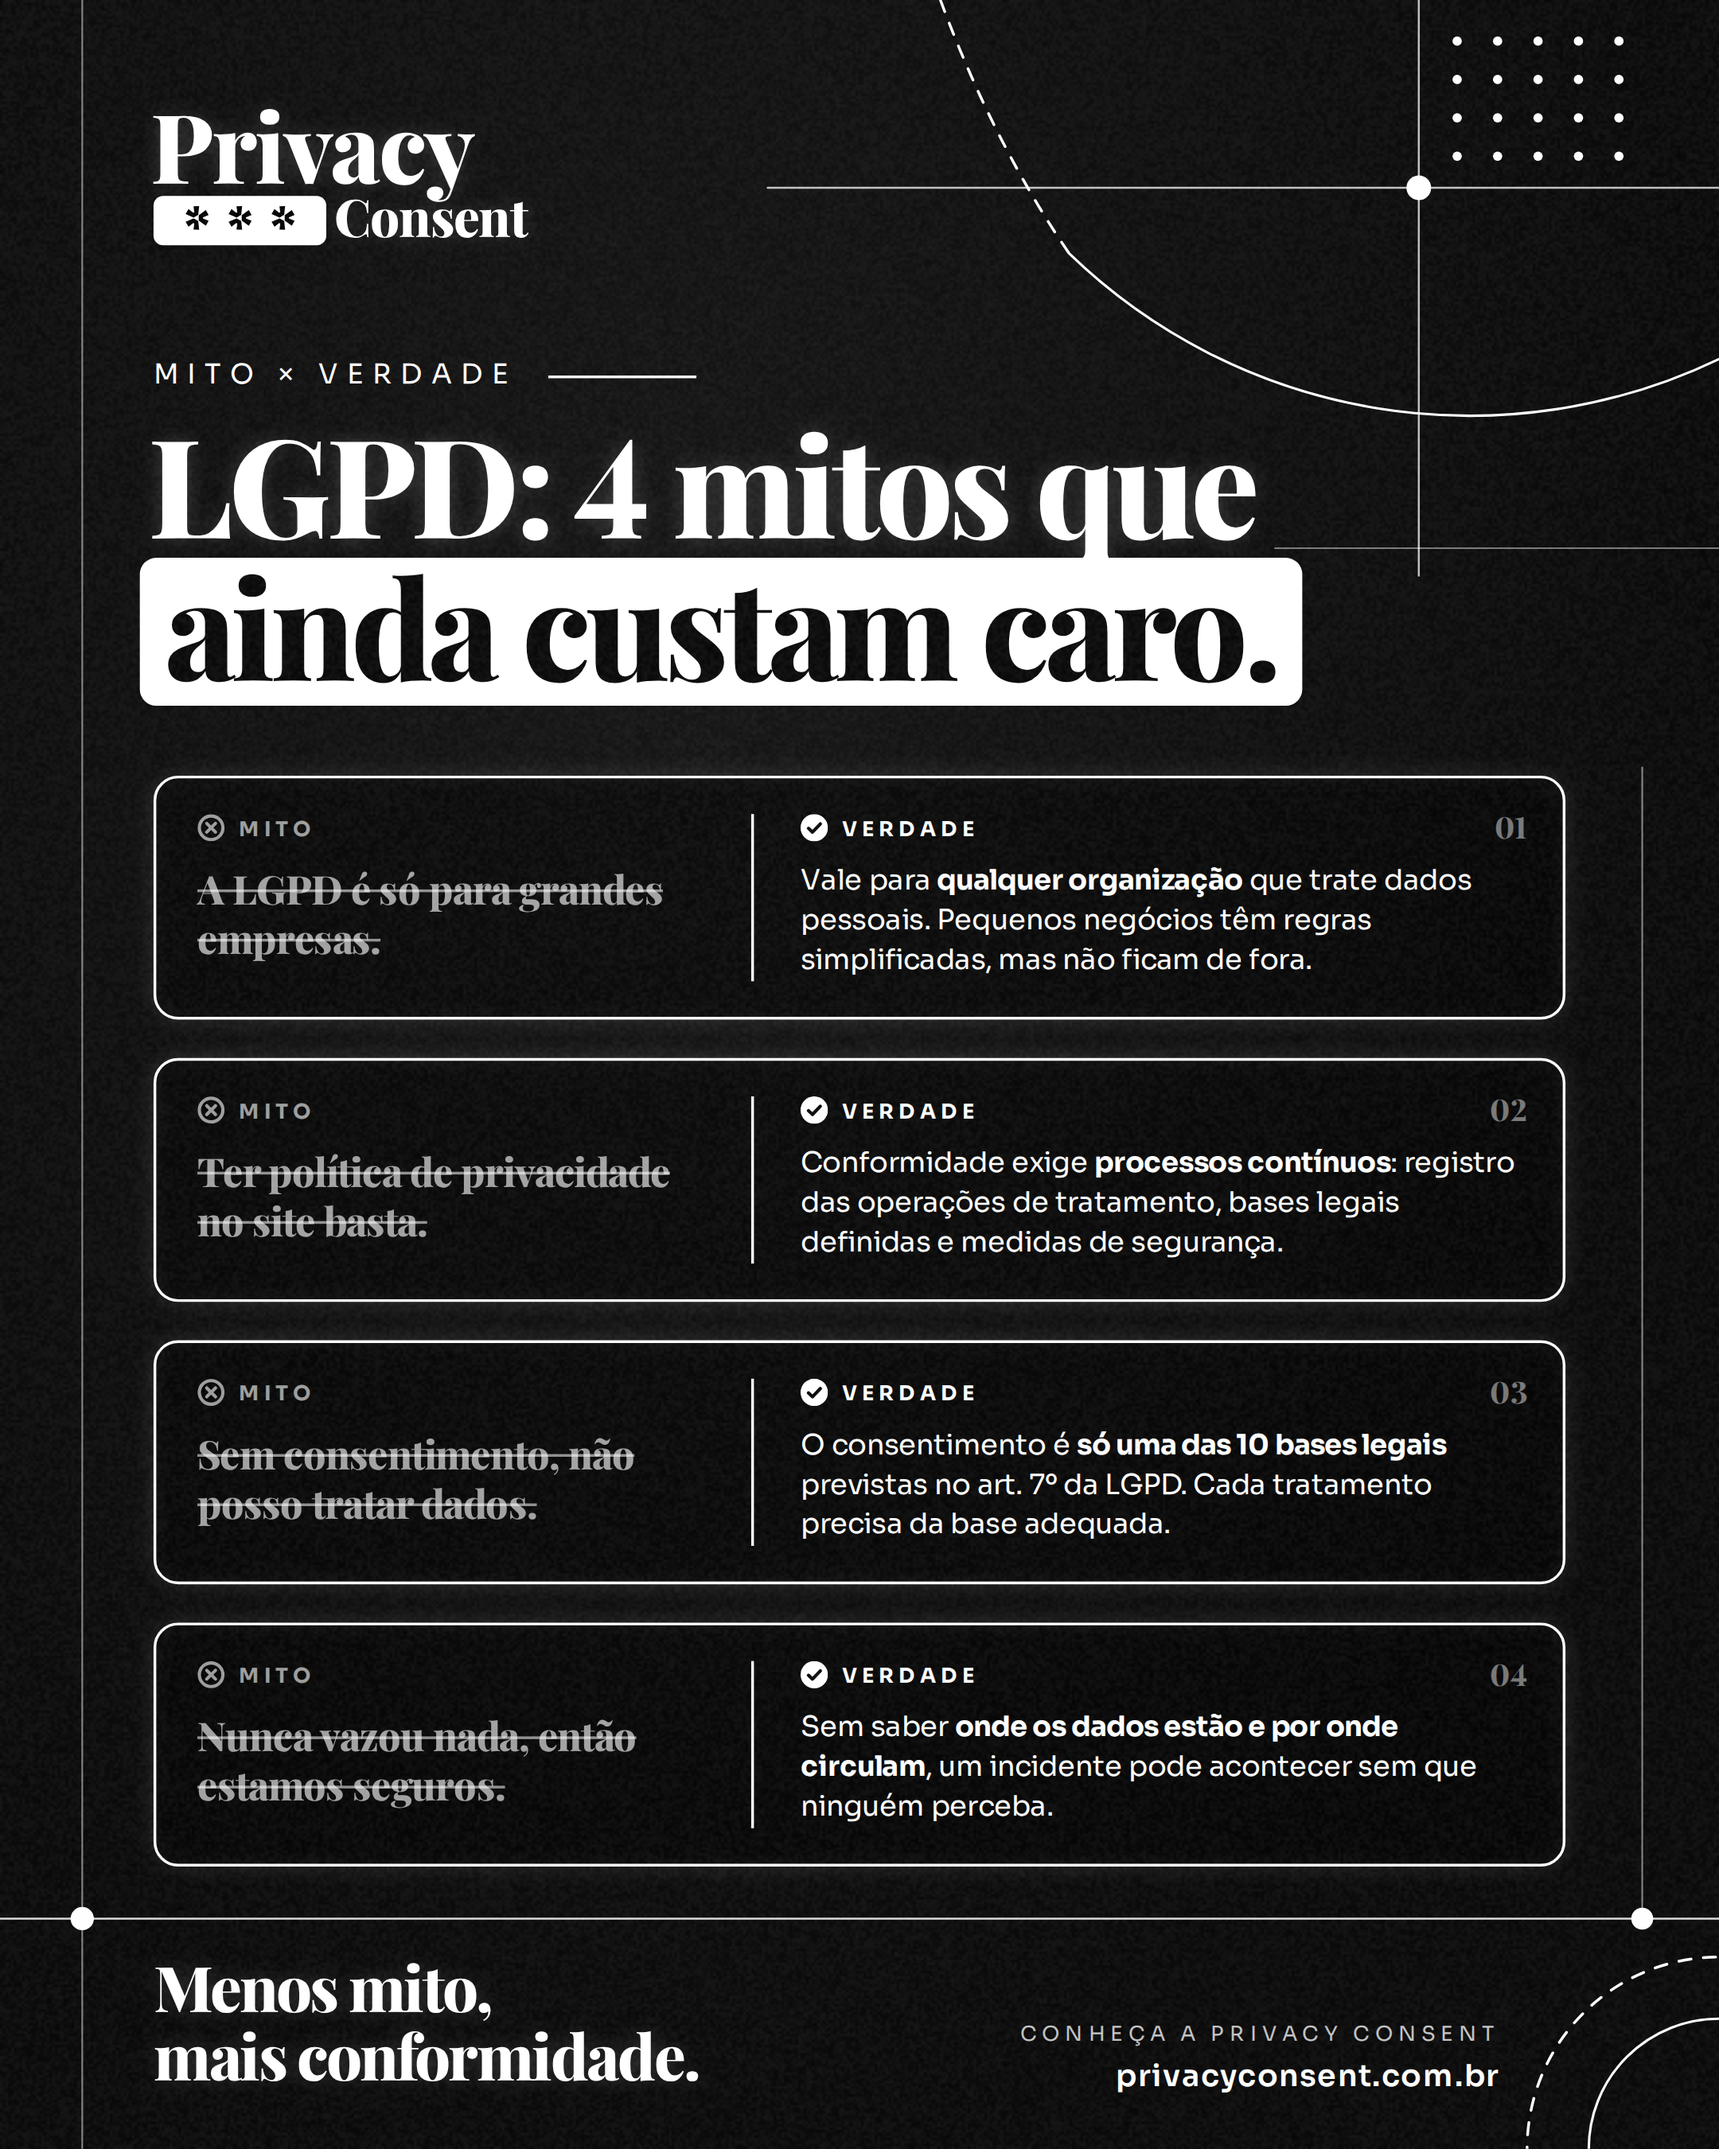
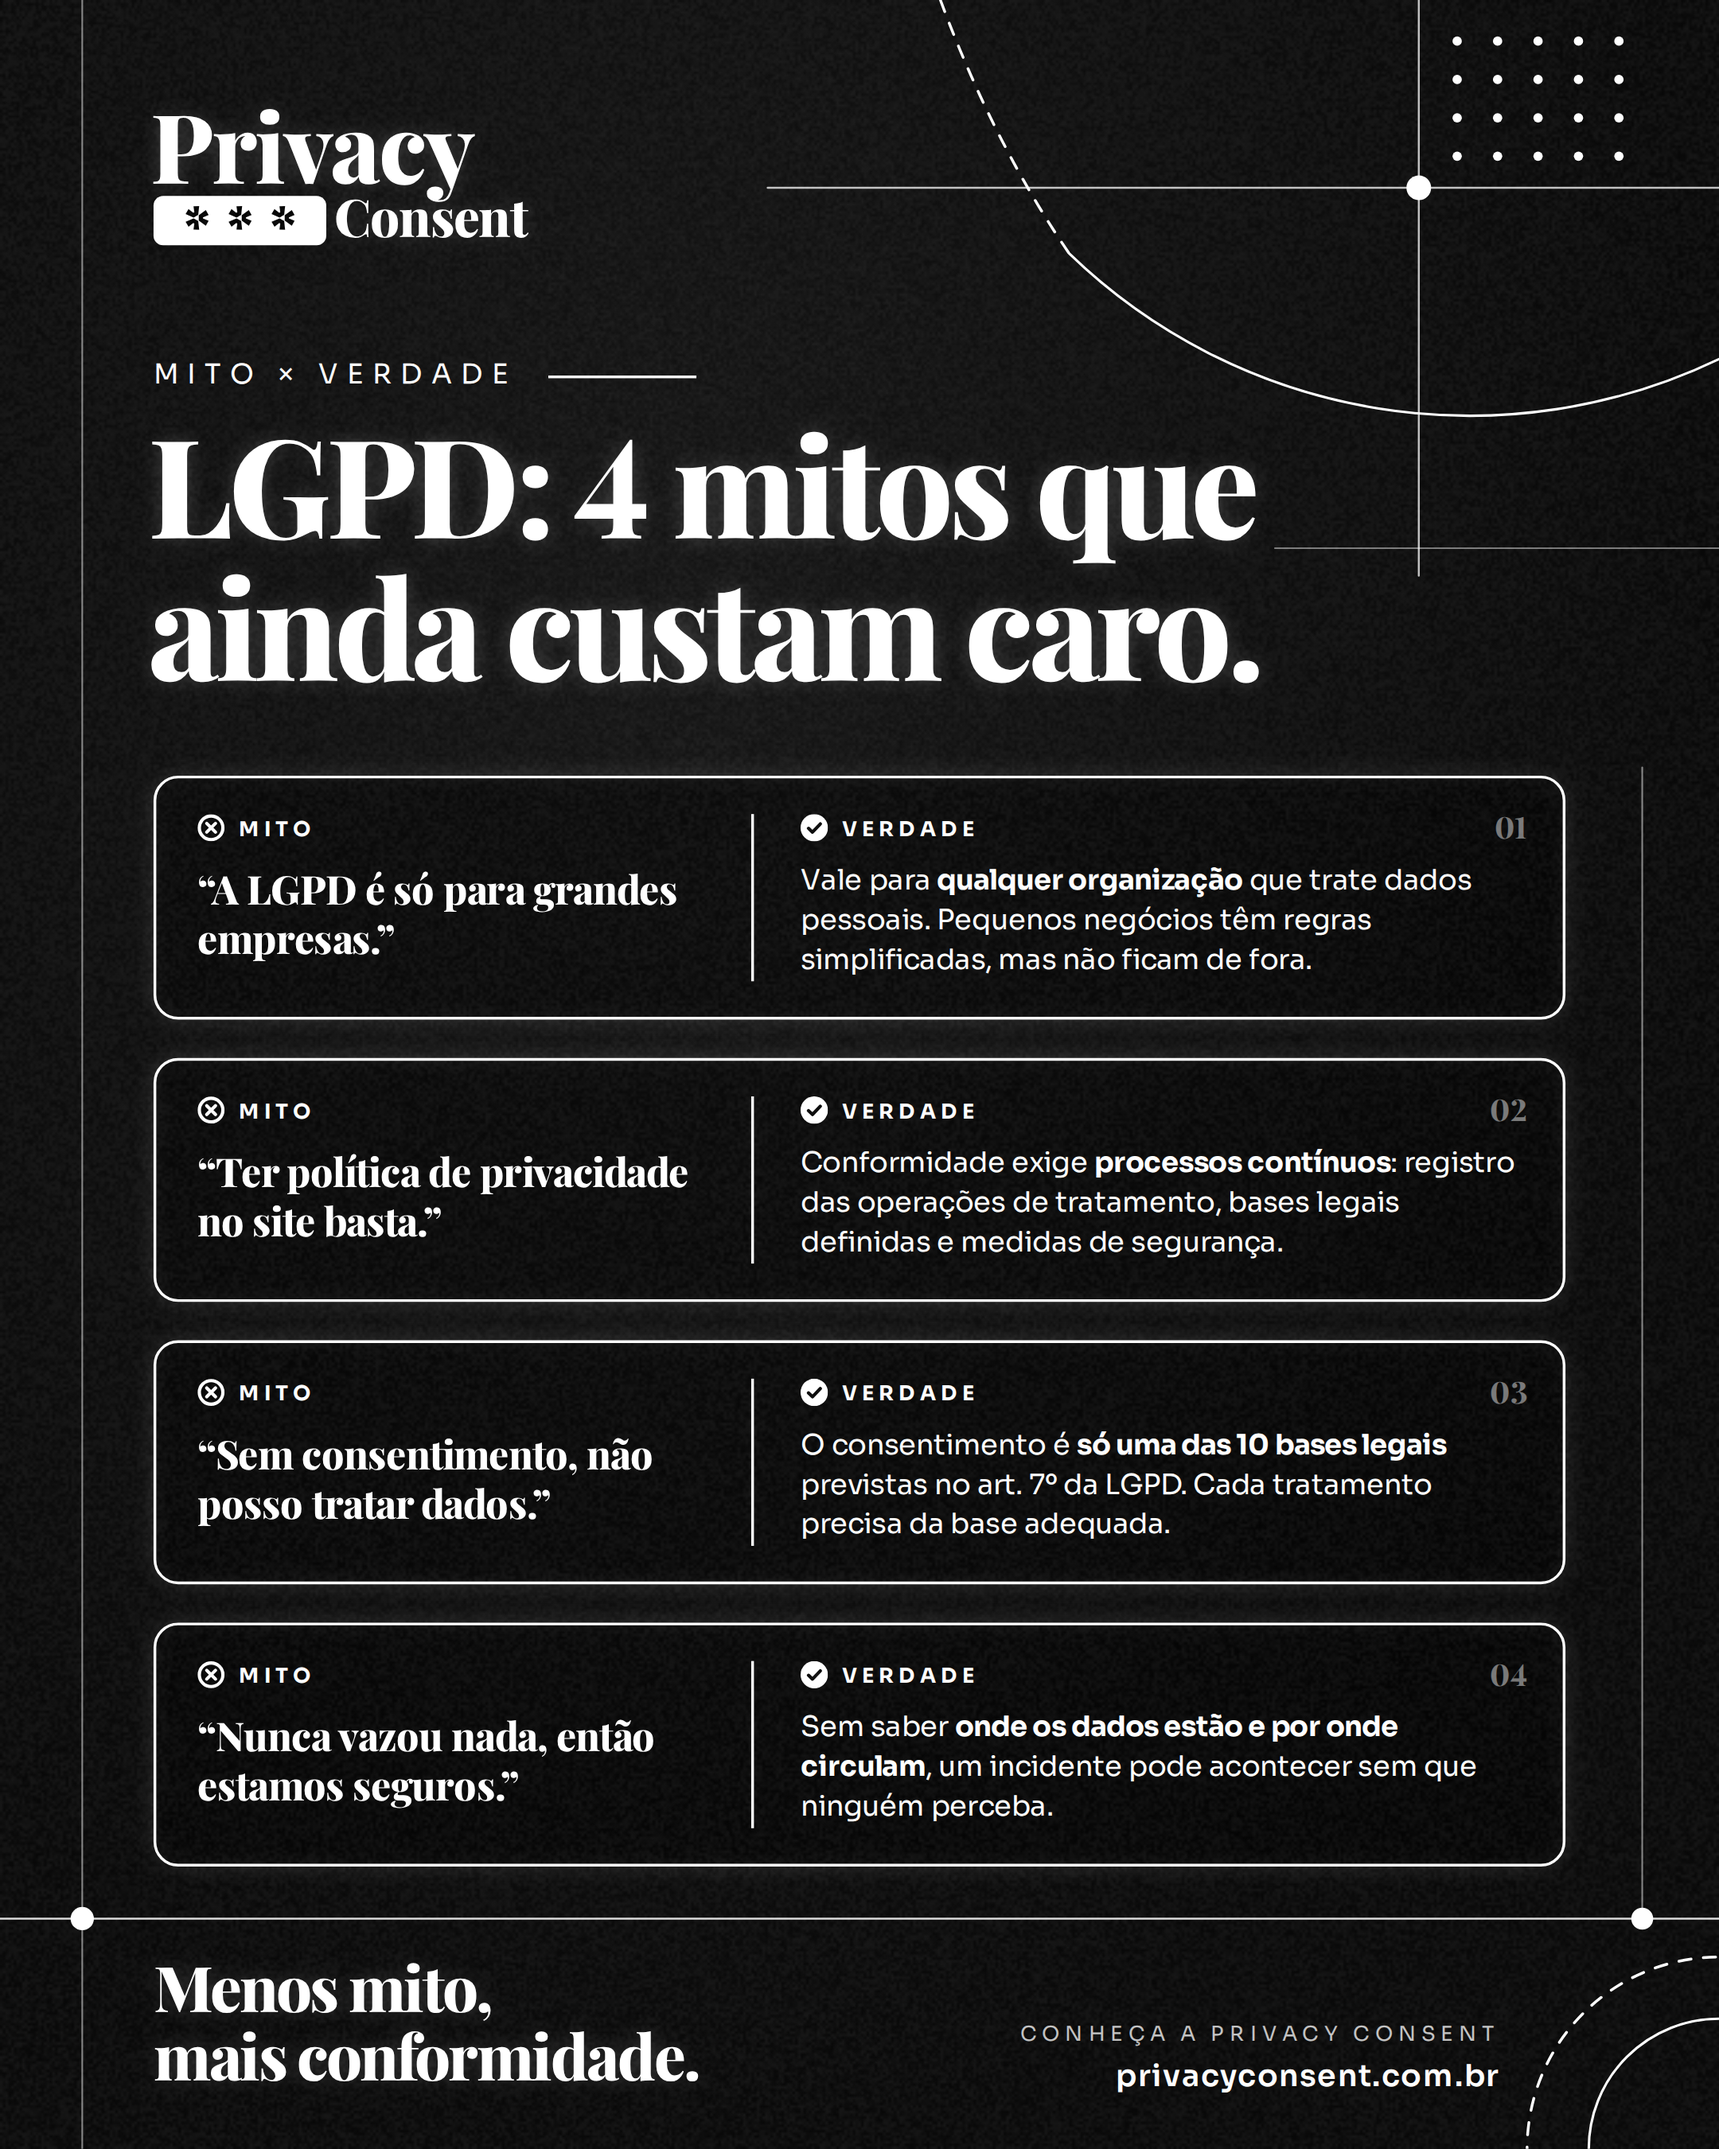
Mitos post: make myths fully legible and drop title highlight box
Claude-Session: https://claude.ai/code/session_01CNA9pLsGgXGqiNL45413r8

diff --git a/privacy-video/mitos.html b/privacy-video/mitos.html
@@ -26,19 +26,17 @@
   #labelRule { position: absolute; left: 400px; top: 274px; width: 108px; height: 1.5px; background: #fff; }
 
   #title { left: 108px; top: 300px; font-size: 100px; letter-spacing: -3.4px; line-height: 104px; }
-  #title .hl { display: inline-block; background: #fff; color: #070707; border-radius: 12px;
-               padding: 0 18px 10px; margin-left: -6px; text-shadow: none; line-height: 98px; }
 
   .card { position: absolute; left: 112px; width: 1030px; height: 178px; border: 2.5px solid #fff; border-radius: 18px;
           box-shadow: 0 0 18px rgba(255,255,255,.12), inset 0 0 18px rgba(255,255,255,.05); background: rgba(0,0,0,.45); }
   .card .tag { position: absolute; display: flex; align-items: center; gap: 10px;
                font-family: 'Sora', sans-serif; font-weight: 700; font-size: 15px; letter-spacing: 3.5px; color: #fff; }
   .card .tag svg { flex: none; }
-  .card .myth-tag { left: 30px; top: 26px; opacity: .6; }
+  .card .myth-tag { left: 30px; top: 26px; }
   .card .true-tag { left: 470px; top: 26px; }
   .card .myth { position: absolute; left: 30px; top: 62px; width: 375px; white-space: normal;
                 font-family: 'Playfair Display', serif; font-weight: 800; font-size: 29px; line-height: 36px; letter-spacing: -.6px;
-                color: rgba(255,255,255,.62); text-decoration: line-through; text-decoration-thickness: 1.5px; text-decoration-color: rgba(255,255,255,.55); }
+                color: #fff; }
   .card .div { position: absolute; left: 434px; top: 26px; bottom: 26px; width: 2px; background: #fff; }
   .card .truth { position: absolute; left: 470px; top: 60px; width: 530px; white-space: normal;
                  font-family: 'Sora', sans-serif; font-size: 20.5px; line-height: 29px; color: #fff; letter-spacing: -.25px; }
@@ -80,7 +78,7 @@
   <div class="abs sans" id="label">MITO × VERDADE</div>
   <div id="labelRule"></div>
 
-  <div class="abs serif glow" id="title">LGPD: 4 mitos que<br><span class="hl">ainda custam caro.</span></div>
+  <div class="abs serif glow" id="title">LGPD: 4 mitos que<br>ainda custam caro.</div>
 
   <template id="icons">
     <svg data-x width="20" height="20" viewBox="0 0 20 20" fill="none" stroke="#fff" stroke-width="2.4" stroke-linecap="round"><circle cx="10" cy="10" r="8.6"/><path d="M6.8 6.8 L13.2 13.2 M13.2 6.8 L6.8 13.2"/></svg>
@@ -111,7 +109,7 @@
   document.getElementById('cards').innerHTML = items.map(([m, t], i) => `
     <div class="card" style="top:${566 + i * 206}px">
       <div class="tag myth-tag">${icon('x')}MITO</div>
-      <div class="myth">${m}</div>
+      <div class="myth">“${m}”</div>
       <div class="div"></div>
       <div class="tag true-tag">${icon('ok')}VERDADE</div>
       <div class="truth">${t}</div>
